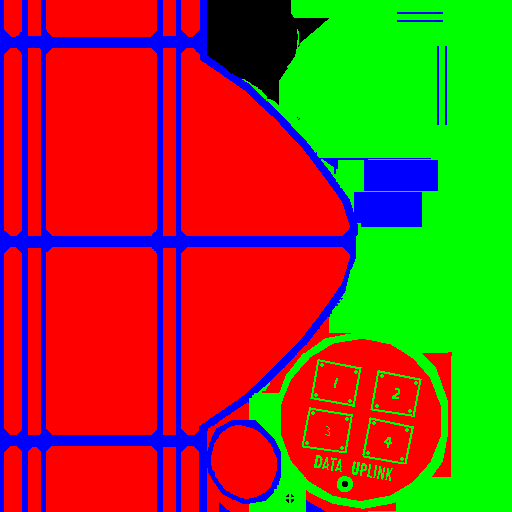
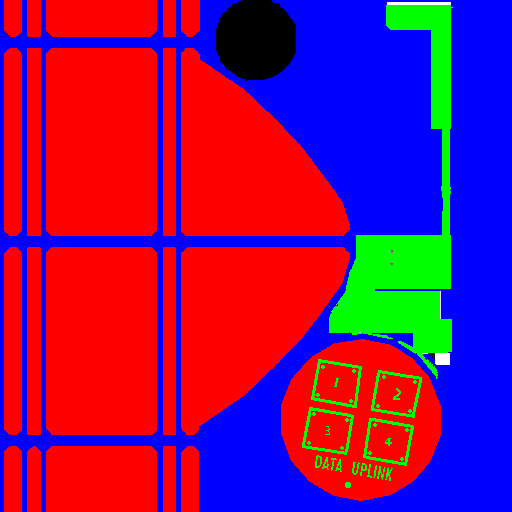
Updated recolor for Orbital Telescope, Added recolor for Goresat, and Magnometer Boom

diff --git a/README.md b/README.md
@@ -2,5 +2,6 @@
 Add the folder named "TU_DMagic Science" to your GameData folder.
 
 # Dependencies
-DMagicOrbital Science
-Textures Unlimited
+- Module Manager
+- DMagicOrbital Science
+- Textures Unlimited Recolor Depot
